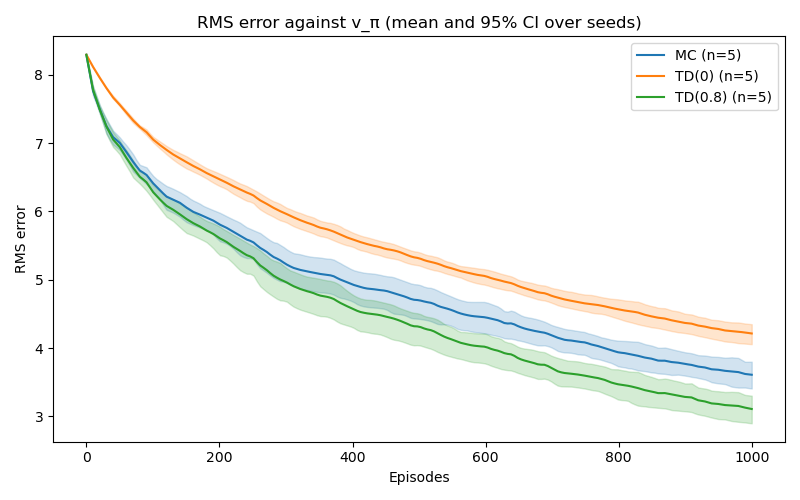
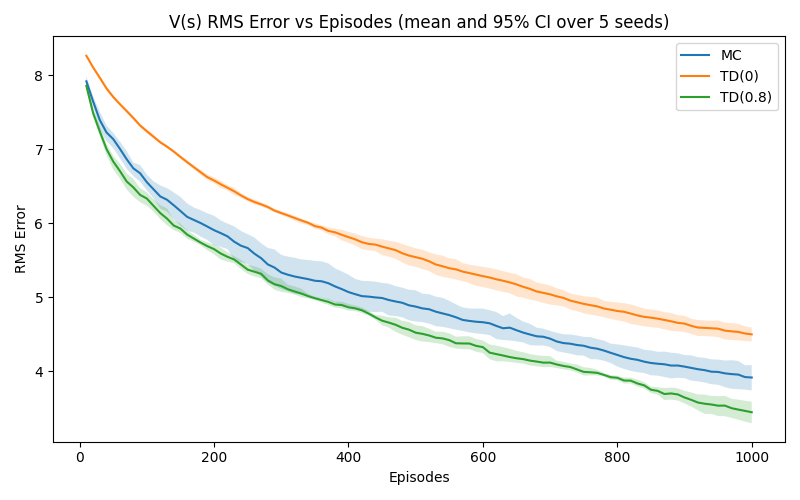
Model-Free Prediciton Experiments

diff --git a/experiments/model_free_prediction/scripts/learning_curves.py b/experiments/model_free_prediction/scripts/learning_curves.py
@@ -1,0 +1,82 @@
+from tabular.prediction import monte_carlo, td_0, backward_td_lambda
+from tabular.policies import sample_action
+from common.stats import bootstrap_ci
+from experiments.model_free_prediction.scripts.rollouts_test import mdp, gamma, soft_pi, V_soft, mask
+import numpy as np
+import matplotlib.pyplot as plt
+
+n_episodes = 1000
+seeds = [0, 1, 2, 3, 4]
+m = mask & (V_soft > -99) # for computational efficiency, only compute RMS error for states that are visited at least 20 times and have a finite value in the soft policy evaluation
+
+def record(i, V_est): # callback function to record RMS error at every 10 episodes
+    if (i + 1) % 10 == 0:
+        errors.append(np.sqrt(np.mean((V_est[m] - V_soft[m]) ** 2)))
+
+mc_errors = []
+td_errors = []
+lambda_errors = []
+for seed in seeds:
+    mdp.reset(seed=seed)
+    rng = np.random.default_rng(seed + 1)
+    act = lambda s: sample_action(soft_pi, s, rng)
+
+    errors = []
+    monte_carlo(mdp, act, n_episodes, alpha=0.05, gamma=gamma, callback=record)
+    mc_errors.append(errors)
+
+    errors = []
+    td_0(mdp, act, n_episodes, alpha=0.1, gamma=gamma, callback=record)
+    td_errors.append(errors)
+
+    errors = []
+    backward_td_lambda(mdp, act, n_episodes, alpha=0.1, gamma=gamma, Lambda=0.8, callback=record)
+    lambda_errors.append(errors)
+
+episodes_axis = range(10, n_episodes + 1, 10)
+fig, ax = plt.subplots(figsize=(8, 5))
+for name, errs in [("MC", mc_errors), ("TD(0)", td_errors), ("TD(0.8)", lambda_errors)]:
+    errs = np.array(errs)
+    low, high = bootstrap_ci(errs)
+    ax.plot(episodes_axis, errs.mean(axis=0), label=name)
+    ax.fill_between(episodes_axis, low, high, alpha=0.2)
+ax.set_title("V(s) RMS Error vs Episodes (mean and 95% CI over 5 seeds)")
+ax.set_xlabel("Episodes")
+ax.set_ylabel("RMS Error")
+ax.legend()
+fig.tight_layout()
+fig.savefig("experiments/model_free_prediction/results/learning_curves.png")
+
+
+alphas = [0.01, 0.05, 0.1, 0.2, 0.35, 0.5, 0.65, 0.8, 0.95]
+mc_final = []
+td_final = []
+for seed in seeds:
+    mc_row = []
+    td_row = []
+    for alpha in alphas:
+        mdp.reset(seed=seed)
+        rng = np.random.default_rng(seed + 1)
+        act = lambda s: sample_action(soft_pi, s, rng)
+        V_mc, _ = monte_carlo(mdp, act, 500, alpha=alpha, gamma=gamma)
+        mc_row.append(np.sqrt(np.mean((V_mc[m] - V_soft[m]) ** 2)))
+
+        mdp.reset(seed=seed)
+        rng = np.random.default_rng(seed + 1) # reset the rng to ensure that the same actions are sampled as in the MC case
+        V_td, _ = td_0(mdp, act, 500, alpha=alpha, gamma=gamma)
+        td_row.append(np.sqrt(np.mean((V_td[m] - V_soft[m]) ** 2)))
+    mc_final.append(mc_row)
+    td_final.append(td_row)
+
+fig, ax = plt.subplots(figsize=(8, 5))
+for name, errs in [("MC", mc_final), ("TD(0)", td_final)]:
+    errs = np.array(errs)
+    low, high = bootstrap_ci(errs)
+    ax.plot(alphas, errs.mean(axis=0), marker="o", label=name)
+    ax.fill_between(alphas, low, high, alpha=0.2)
+ax.set_title("V(s) RMS Error after 500 Episodes vs Step Size (mean and 95% CI over 5 seeds)")
+ax.set_xlabel("Step size α")
+ax.set_ylabel("RMS Error")
+ax.legend()
+fig.tight_layout()
+fig.savefig("experiments/model_free_prediction/results/step_size.png")

diff --git a/experiments/model_free_prediction/scripts/heatmaps.py b/experiments/model_free_prediction/scripts/heatmaps.py
@@ -1,0 +1,71 @@
+from tabular.prediction import nstep_td, forward_td_lambda, backward_td_lambda
+from tabular.policies import sample_action
+from experiments.model_free_prediction.scripts.rollouts_test import mdp, gamma, soft_pi, V_soft, mask
+import numpy as np
+import matplotlib.pyplot as plt
+
+n_episodes = 500
+seeds = [0, 1, 2, 3, 4]
+alphas = [0.01, 0.05, 0.1, 0.2, 0.35, 0.5, 0.65, 0.8, 0.95]
+m = mask & (V_soft > -99)
+act = lambda s: sample_action(soft_pi, s, rng)
+
+
+ns = [1, 2, 4, 8, 16, 32]
+n_errors = np.zeros((len(ns), len(alphas)))
+for i, n in enumerate(ns):
+    for j, alpha in enumerate(alphas):
+        for seed in seeds:
+            mdp.reset(seed=seed)
+            rng = np.random.default_rng(seed + 1)
+            V, _ = nstep_td(mdp, act, n_episodes, alpha=alpha, gamma=gamma, n=n)
+            n_errors[i, j] += np.sqrt(np.mean((V[m] - V_soft[m]) ** 2))
+n_errors /= len(seeds)
+
+fig, ax = plt.subplots(figsize=(9, 5))
+img = ax.imshow(n_errors, cmap="viridis", vmax=8)
+fig.colorbar(img, ax=ax, label="RMS Error")
+for i in range(len(ns)):
+    for j in range(len(alphas)):
+        ax.text(j, i, f"{n_errors[i, j]:.1f}" if n_errors[i, j] < 100 else ">100", ha="center", va="center", color="white")
+ax.set_xticks(range(len(alphas)), alphas)
+ax.set_yticks(range(len(ns)), ns)
+ax.set_xlabel("Step size α")
+ax.set_ylabel("n")
+ax.set_title(f"n-step TD: RMS Error after {n_episodes} Episodes (mean over 5 seeds)")
+fig.tight_layout()
+fig.savefig("experiments/model_free_prediction/results/n_step_heatmap.png")
+
+
+lambdas = [0, 0.2, 0.4, 0.6, 0.8, 0.9, 0.95, 1]
+forward_errors = np.zeros((len(lambdas), len(alphas)))
+backward_errors = np.zeros((len(lambdas), len(alphas)))
+for i, lam in enumerate(lambdas):
+    for j, alpha in enumerate(alphas):
+        for seed in seeds:
+            mdp.reset(seed=seed)
+            rng = np.random.default_rng(seed + 1)
+            V, _ = forward_td_lambda(mdp, act, n_episodes, alpha=alpha, gamma=gamma, Lambda=lam)
+            forward_errors[i, j] += np.sqrt(np.mean((V[m] - V_soft[m]) ** 2))
+
+            mdp.reset(seed=seed)
+            rng = np.random.default_rng(seed + 1)
+            V, _ = backward_td_lambda(mdp, act, n_episodes, alpha=alpha, gamma=gamma, Lambda=lam)
+            backward_errors[i, j] += np.sqrt(np.mean((V[m] - V_soft[m]) ** 2))
+forward_errors /= len(seeds)
+backward_errors /= len(seeds)
+
+fig, axs = plt.subplots(1, 2, figsize=(16, 6))
+for ax, errors, name in [(axs[0], forward_errors, "Forward view"), (axs[1], backward_errors, "Backward view")]:
+    img = ax.imshow(errors, cmap="viridis", vmax=8)
+    fig.colorbar(img, ax=ax, label="RMS Error")
+    for i in range(len(lambdas)):
+        for j in range(len(alphas)):
+            ax.text(j, i, f"{errors[i, j]:.1f}" if errors[i, j] < 100 else ">100", ha="center", va="center", color="white")
+    ax.set_xticks(range(len(alphas)), alphas)
+    ax.set_yticks(range(len(lambdas)), lambdas)
+    ax.set_xlabel("Step size α")
+    ax.set_ylabel("λ")
+    ax.set_title(f"TD(λ) {name}: RMS Error after {n_episodes} Episodes")
+fig.tight_layout()
+fig.savefig("experiments/model_free_prediction/results/lambda_heatmap.png")

diff --git a/experiments/model_free_prediction/scripts/batch_comparison.py b/experiments/model_free_prediction/scripts/batch_comparison.py
@@ -1,0 +1,53 @@
+from tabular.prediction import batch_mc, batch_td_0, certainty_equivalence
+from tabular.rollout import run_episode
+from tabular.policies import sample_action
+from common.stats import bootstrap_ci
+from experiments.model_free_prediction.scripts.rollouts_test import mdp, gamma, soft_pi, V_soft, mask
+import numpy as np
+import matplotlib.pyplot as plt
+
+n_batch = 50
+seeds = [0, 1, 2, 3, 4]
+act = lambda s: sample_action(soft_pi, s, rng)
+
+mc_errors = []
+td_errors = []
+ce_errors = []
+for seed in seeds:
+    mdp.reset(seed=seed)
+    rng = np.random.default_rng(seed + 1)
+    episodes = [run_episode(mdp, act) for _ in range(n_batch)]
+
+    visited = np.zeros(mdp.n_states, dtype=bool)
+    for ep in episodes:
+        visited[ep.states] = True
+    m = mask & (V_soft > -99) & visited
+
+    V_mc = batch_mc(episodes, mdp.n_states, gamma)
+    V_td = batch_td_0(episodes, mdp.n_states, gamma)
+    V_ce = certainty_equivalence(episodes, mdp.n_states, mdp.n_actions, gamma)
+
+    mc_errors.append(np.sqrt(np.mean((V_mc[m] - V_soft[m]) ** 2)))
+    td_errors.append(np.sqrt(np.mean((V_td[m] - V_soft[m]) ** 2)))
+    ce_errors.append(np.sqrt(np.mean((V_ce[m] - V_soft[m]) ** 2)))
+    print(f"seed {seed}: batch TD vs CE max difference = {np.max(np.abs(V_td - V_ce)):.1e}")
+
+names = ["Batch MC", "Batch TD", "Certainty equivalence"]
+means = []
+lows = []
+highs = []
+for errs in [mc_errors, td_errors, ce_errors]:
+    errs = np.array(errs)
+    low, high = bootstrap_ci(errs)
+    means.append(errs.mean())
+    lows.append(errs.mean() - low)
+    highs.append(high - errs.mean())
+
+fig, ax = plt.subplots(figsize=(7, 5))
+ax.bar(names, means, yerr=[lows, highs], capsize=8, color=["tab:blue", "tab:orange", "tab:green"])
+for i, mean in enumerate(means):
+    ax.text(i, mean / 2, f"{mean:.2f}", ha="center", color="white")
+ax.set_ylabel("RMS Error")
+ax.set_title(f"Batch Methods on {n_batch} Episodes (mean and 95% CI over 5 seeds)")
+fig.tight_layout()
+fig.savefig("experiments/model_free_prediction/results/batch_comparison.png")
